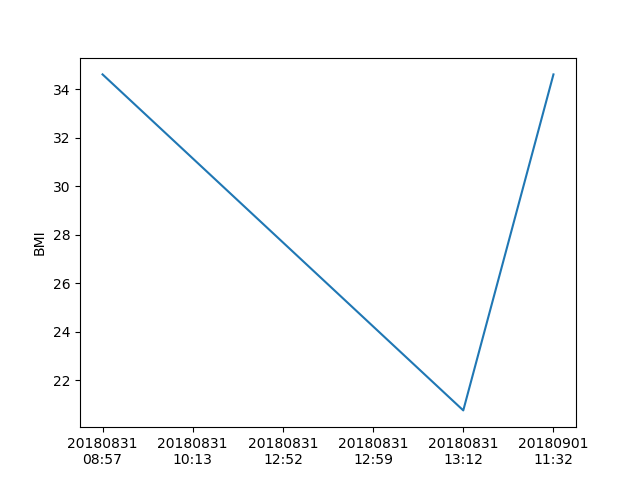
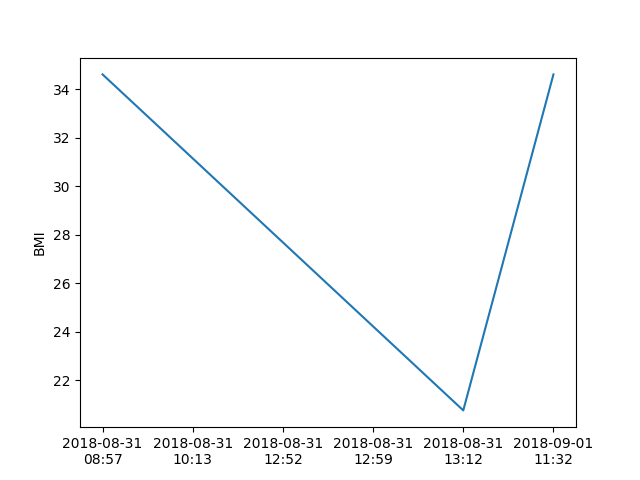
modify BMI models

Changed region(s): [[0.0938, 0.9062, 0.9375, 0.9688]]

diff --git a/mysite/bmi/views.py b/mysite/bmi/views.py
@@ -26,8 +26,10 @@ def member_bmi(request, name):
         bmi_list.append(bmi.calculate_bmi())
         date_list.append(bmi.get_date())
     
+    xn = range(len(date_list))
     plt.ylabel('BMI')
-    plt.plot(date_list, bmi_list)
+    plt.plot(xn, bmi_list)
+    plt.xticks(xn, date_list)
     plt.savefig('bmi/static/temp/' + name + '.png')
     
     img_url = '/static/temp/' + name + '.png'

diff --git a/mysite/bmi/models.py b/mysite/bmi/models.py
@@ -17,4 +17,4 @@ class BMI(models.Model):
         return weight / (height * height)
 
     def get_date(self):
-        return str(self.date.year).zfill(4) + str(self.date.month).zfill(2)  + str(self.date.day).zfill(2)  + '\n' + str(self.date.hour).zfill(2) + ':' + str(self.date.minute).zfill(2) 
+        return self.date.strftime('%Y-%m-%d\n%H:%M')
